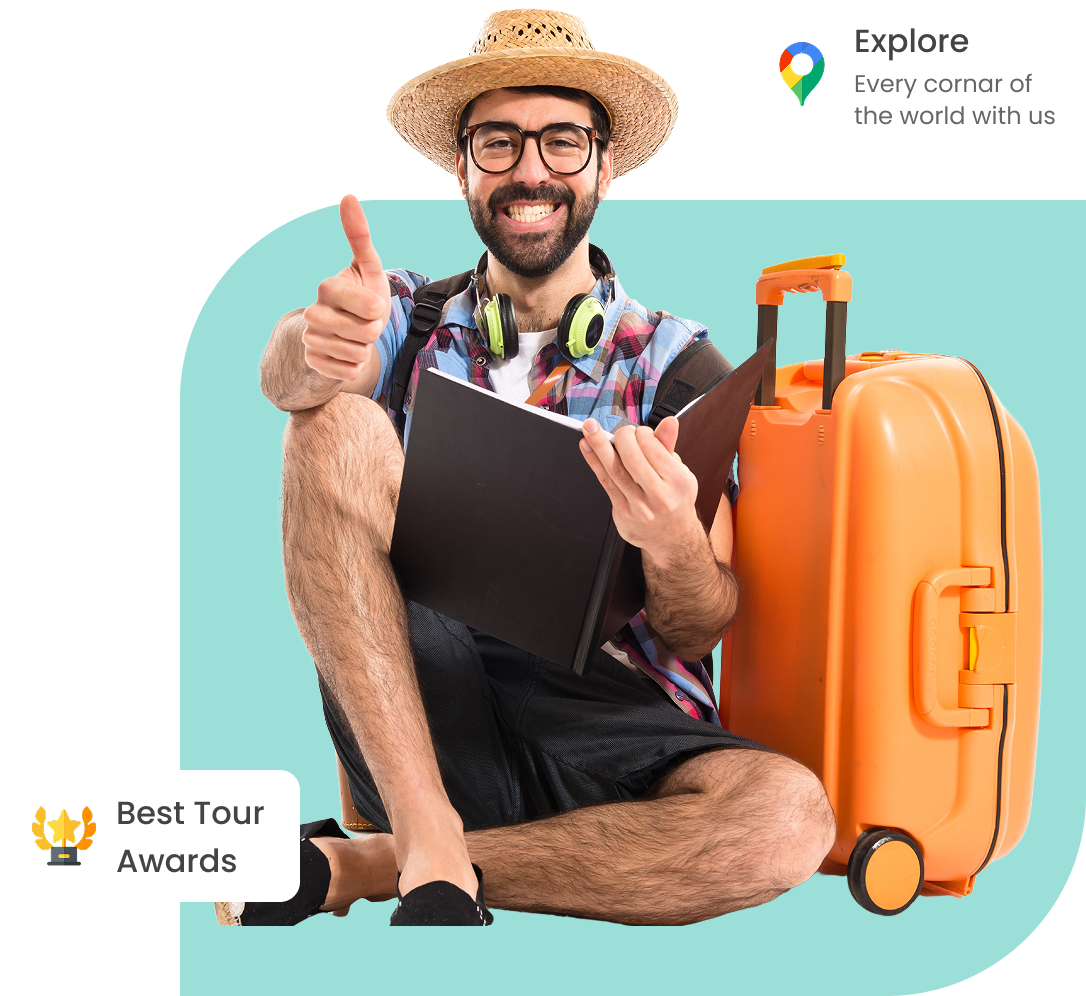
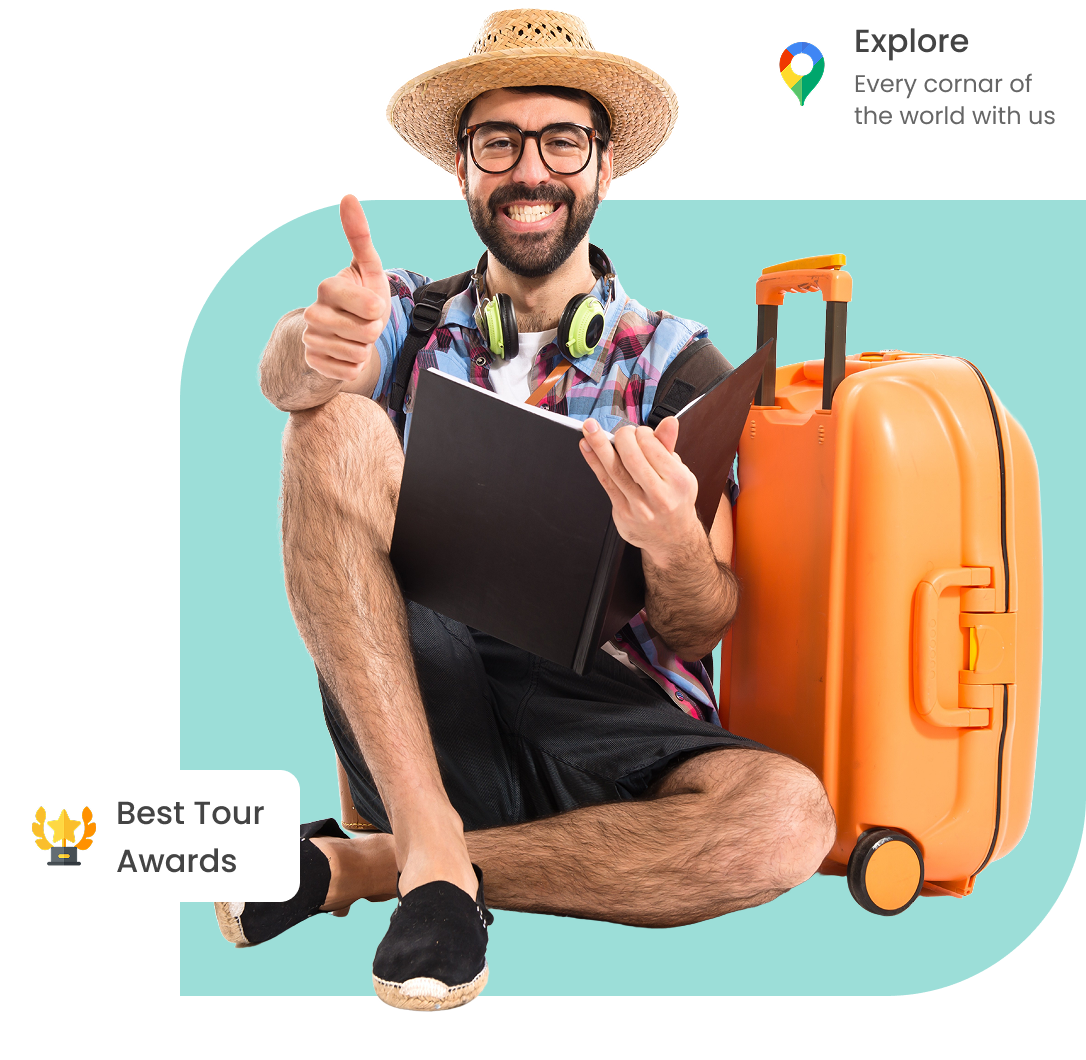
feat: output search results, fix styles, replace home page image [Task 3. Render search results]

diff --git a/src/pages/Home/Home.tsx b/src/pages/Home/Home.tsx
@@ -1,21 +1,22 @@
-import { useState, useRef } from "react";
+import { useState } from "react";
 
 import Button from "../../ui/Button/Button";
 import Dropdown from "../../ui/Dropdown/Dropdown";
 
-import { scrollIntoView } from "../../utils/scrollIntoView";
-
 import type { PriceMap } from "../../interfaces/PriceMap";
+
+import { FontAwesomeIcon } from "@fortawesome/react-fontawesome";
+import { faTriangleExclamation } from "@fortawesome/free-solid-svg-icons";
 
 import { FadeLoader } from "react-spinners";
 
 import s from "./Home.module.scss";
+import Card from "../../components/Card/Card";
 
 const Home = () => {
   const [items, setItems] = useState<PriceMap[]>([]);
   const [loading, setLoading] = useState(false);
   const [error, setError] = useState("");
-  const cardsRef = useRef<HTMLDivElement>(null);
 
   return (
     <div className={s.container}>
@@ -47,13 +48,26 @@ const Home = () => {
         loading={loading}
         setLoading={setLoading}
         setError={setError}
-        scrollIntoView={() => scrollIntoView(cardsRef)}
       />
 
-      <div className={s.cards} ref={cardsRef}>
-        <h2 style={{ fontSize: 50 }}>Cards</h2>
-        {loading && <FadeLoader />}
-      </div>
+      {loading ? (
+        <FadeLoader className={s.loader} />
+      ) : error ? (
+        <div className={s["error-block"]}>
+          <FontAwesomeIcon className={s.icon} icon={faTriangleExclamation} />
+          <p>{error}</p>
+        </div>
+      ) : (
+        items.length > 0 && (
+          <div className={s.cards}>
+            {items
+              .sort((a, b) => a.amount - b.amount)
+              .map((item) => (
+                <Card key={item.id} item={item} />
+              ))}
+          </div>
+        )
+      )}
     </div>
   );
 };

diff --git a/src/components/Card/Card.module.scss b/src/components/Card/Card.module.scss
@@ -1,0 +1,70 @@
+@import "../../styles/variables.scss";
+
+.card {
+  width: 100%;
+  max-width: 325px;
+  border-radius: 20px;
+  color: $light-black;
+  background: $white;
+  text-decoration: none;
+  transition:
+    transform 0.3s ease-in-out,
+    filter 0.3s ease-in-out;
+  filter: drop-shadow(6px 6px 10px rgba(0, 0, 0, 0.1));
+  cursor: pointer;
+
+  &:hover {
+    transform: scale(1.03);
+  }
+
+  img {
+    width: 100%;
+    object-fit: cover;
+    border-radius: 20px 20px 0 0;
+  }
+
+  .content {
+    display: flex;
+    flex-direction: column;
+    padding: 20px;
+
+    h2,
+    .date,
+    .amount {
+      margin-bottom: 10px;
+    }
+
+    h2 {
+      font-size: 18px;
+      color: $primary;
+    }
+
+    .geo-block {
+      display: flex;
+      align-items: baseline;
+      gap: 5px;
+      margin-bottom: 15px;
+      font-size: 14px;
+    }
+
+    .date,
+    .amount {
+      align-self: flex-end;
+      margin-bottom: 10px;
+      font-family: "Roboto", sans-serif;
+    }
+
+    .amount {
+      color: $secondary;
+    }
+
+    .link {
+      color: rgba(0, 94, 255, 0.6);
+      transition: color 0.3s ease-in-out;
+
+      &:hover {
+        color: darken(rgba(0, 94, 255, 0.6), 10%);
+      }
+    }
+  }
+}

diff --git a/src/components/Card/Card.tsx b/src/components/Card/Card.tsx
@@ -1,0 +1,42 @@
+import { Link } from "react-router-dom";
+
+import { getFormattedDate } from "../../utils/getFormattedDate";
+import { getFormattedAmount } from "../../utils/getFormattedAmount";
+
+import type { PriceMap } from "../../interfaces/PriceMap";
+
+import { FontAwesomeIcon } from "@fortawesome/react-fontawesome";
+import { faLocationDot } from "@fortawesome/free-solid-svg-icons";
+
+import s from "./Card.module.scss";
+
+const Card = ({ item }: { item: PriceMap }) => {
+  return (
+    <Link to="/" className={s.card}>
+      <img src={item.image} alt="hotel" />
+
+      <div className={s.content}>
+        <h2>{item.name}</h2>
+
+        <div className={s["geo-block"]}>
+          <FontAwesomeIcon icon={faLocationDot} />
+          <p>{`${item.countryName}, ${item.cityName}`}</p>
+        </div>
+
+        <p className={s.date}>{getFormattedDate(item.startDate, "uk-UA")}</p>
+
+        <p className={s.amount}>
+          {getFormattedAmount(
+            "en-US",
+            { style: "currency", currency: "USD" },
+            item.amount,
+          )}
+        </p>
+
+        <p className={s.link}>Open price</p>
+      </div>
+    </Link>
+  );
+};
+
+export default Card;

diff --git a/src/pages/Home/Home.module.scss b/src/pages/Home/Home.module.scss
@@ -7,18 +7,18 @@
 
   .main {
     position: relative;
-    margin-bottom: 62px;
+    margin-bottom: 32px;
 
     &::after {
       content: "";
       position: absolute;
       inset: 0;
-      height: 120%;
+      height: 115%;
       background: $background;
       z-index: -1;
 
       @include onTablet {
-        height: 110%;
+        height: 108%;
       }
     }
 
@@ -96,6 +96,41 @@
         z-index: 1;
         filter: drop-shadow(4px 4px 8px rgba(0, 0, 0, 0.1));
       }
+    }
+  }
+
+  .loader,
+  .error-block {
+    align-self: center;
+  }
+
+  .loader span {
+    background: $primary !important;
+  }
+
+  .error-block {
+    display: flex;
+    align-items: center;
+    gap: 8px;
+    padding: 25px;
+
+    .icon {
+      color: rgb(255, 179, 0);
+    }
+  }
+
+  .cards {
+    display: grid;
+    grid-template-columns: repeat(2, 1fr);
+    gap: 50px;
+    width: 100%;
+    max-width: 700px;
+    margin: 0 auto;
+    padding: 25px;
+
+    @media (max-width: 600px) {
+      grid-template-columns: 1fr;
+      justify-items: center;
     }
   }
 }

diff --git a/src/ui/Dropdown/Dropdown.tsx b/src/ui/Dropdown/Dropdown.tsx
@@ -28,13 +28,11 @@ const Dropdown = ({
   loading,
   setLoading,
   setError,
-  scrollIntoView,
 }: {
   setItems: React.Dispatch<React.SetStateAction<PriceMap[]>>;
   loading: boolean;
   setLoading: React.Dispatch<React.SetStateAction<boolean>>;
   setError: React.Dispatch<React.SetStateAction<string>>;
-  scrollIntoView: () => void;
 }) => {
   const [value, setValue] = useState("");
   const [selected, setSelected] = useState(false);
@@ -73,7 +71,7 @@ const Dropdown = ({
 
   const handleDropdownSubmit = async () => {
     setLoading(true);
-    scrollIntoView();
+    setError("");
 
     const token = Cookies.get("token");
     const countryId =
@@ -95,6 +93,10 @@ const Dropdown = ({
             Object.values(await res.json()),
             currentItem,
           );
+
+          if (prices.length === 0) {
+            setError("No tours found. Try changing settings");
+          }
 
           setItems(prices);
         } catch (err: any) {

diff --git a/src/ui/Button/Button.module.scss b/src/ui/Button/Button.module.scss
@@ -12,12 +12,14 @@
     background 0.3s ease-in-out,
     color 0.3s ease-in-out;
 
-  &:hover {
-    background: darken($primary, 10%);
-  }
+  @media (min-width: 961px) {
+    &:hover {
+      background: darken($primary, 10%);
+    }
 
-  &:active {
-    background: lighten($primary, 10%);
+    &:active {
+      background: lighten($primary, 10%);
+    }
   }
 
   &--cover {
@@ -29,9 +31,11 @@
     color: $black;
     background: none;
 
-    &:hover,
-    &:active {
-      color: $white;
+    @media (min-width: 961px) {
+      &:hover,
+      &:active {
+        color: $white;
+      }
     }
   }
 

diff --git a/src/ui/Dropdown/Dropdown.module.scss b/src/ui/Dropdown/Dropdown.module.scss
@@ -17,12 +17,14 @@
 
   @include onMobile {
     padding-inline: 20px;
+    margin-bottom: 26px;
   }
 
   .dropdown {
     position: relative;
     width: 100%;
     max-width: 360px;
+    z-index: 1;
 
     .input-block {
       position: relative;
@@ -69,6 +71,7 @@
       border-radius: 5px;
       outline: 1px solid $gray;
       background: #fff;
+      filter: drop-shadow(6px 6px 10px rgba(0, 0, 0, 0.1));
 
       .not-found,
       .item {

diff --git a/src/utils/getFormattedAmount.ts b/src/utils/getFormattedAmount.ts
@@ -1,0 +1,11 @@
+export const getFormattedAmount = (
+  locale: string,
+  options:
+    | { style: "currency"; currency: string }
+    | { style: "decimal" }
+    | { style: "percent" }
+    | { style: "unit"; unit: Intl.NumberFormatOptions["unit"] },
+  amount: number,
+) => {
+  return new Intl.NumberFormat(locale, options).format(amount);
+};

diff --git a/src/utils/getFormattedDate.ts b/src/utils/getFormattedDate.ts
@@ -1,0 +1,7 @@
+export const getFormattedDate = (
+  date: string | number | Date,
+  locale: string,
+  options?: Intl.DateTimeFormatOptions,
+) => {
+  return new Date(date).toLocaleDateString(locale, options);
+};
